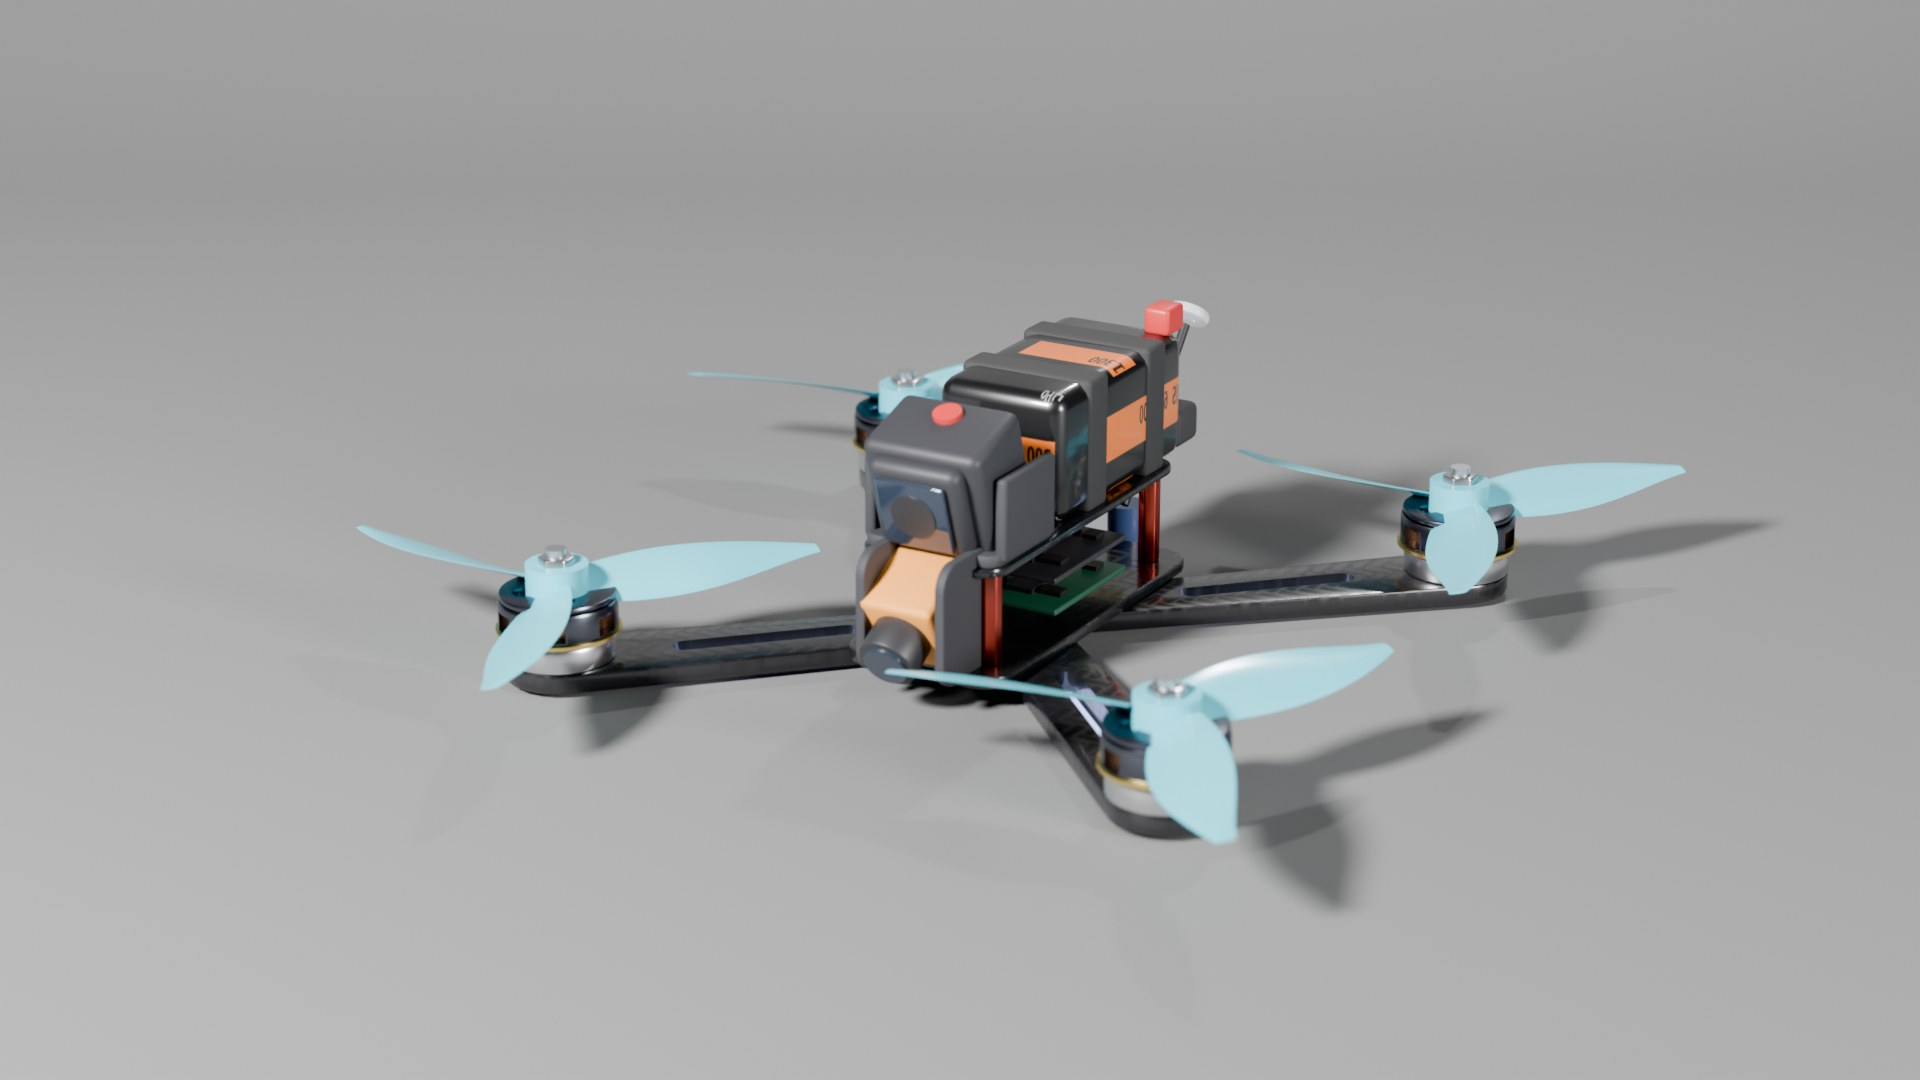
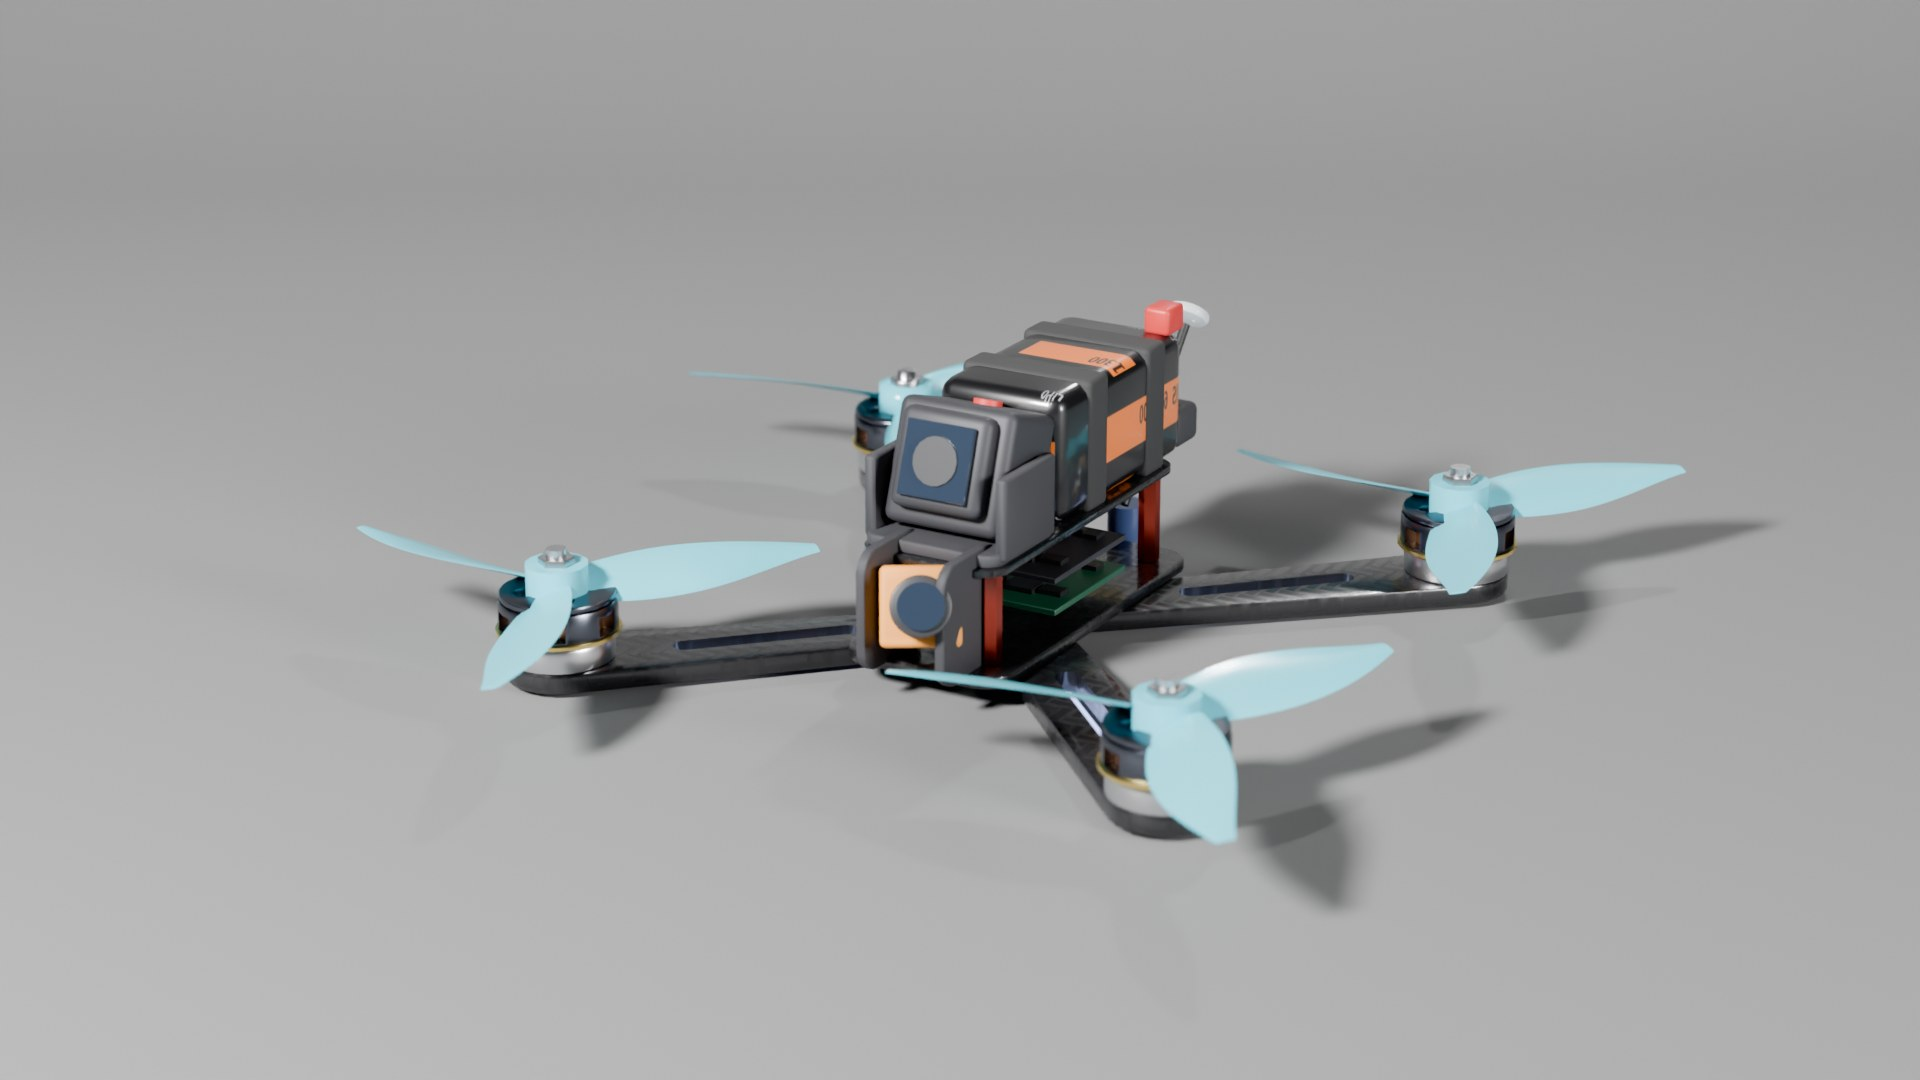
Station: loading stills — drones looking at you, only the stills it shows
The two drone stills re-rendered (Cycles, 64 samples, denoised) with each
drone's FPV camera aimed at the viewer. The loading slideshow drops the
cliff still; showcase.py renders just the aerial and night by default
(--shots cliff for the spare).

Claude-Session: https://claude.ai/code/session_01EzZT1tvg8KVWVUon2AmT86

Changed region(s): [[0.4375, 0.3361, 0.5625, 0.6722], [0.5938, 0.55, 0.625, 0.5806]]

diff --git a/src/station/intro.tsx b/src/station/intro.tsx
@@ -133,7 +133,7 @@ export function IntroFlight() {
  * and crossfading — the way a game's loading screen shows its artwork —
  * until the flight cuts in. Any that haven't been rendered are just left out.
  */
-const SLIDES = ['aerial', 'cliff', 'night', 'hero_quad', 'hero_whoop'].map((n) => `/station/loading/${n}.jpg`)
+const SLIDES = ['aerial', 'night', 'hero_quad', 'hero_whoop'].map((n) => `/station/loading/${n}.jpg`)
 
 function Slides({ on }: { on: boolean }) {
   const [ready, setReady] = useState<string[]>([])

diff --git a/tools/blender/showcase.py b/tools/blender/showcase.py
@@ -44,7 +44,7 @@ def arg(name, default, n=1):
 
 SKILLS = os.path.expanduser(arg('--skills', os.environ.get('BLENDER_SKILLS', '~/blender-skills')))
 OUT = os.path.abspath(arg('--out', os.path.join(STATION, 'loading')))
-SHOTS = arg('--shots', 'aerial,cliff,night').split(',')
+SHOTS = arg('--shots', 'aerial,night').split(',')
 RES = arg('--res', [1920, 1080], 2)
 SAMPLES = arg('--samples', 256)
 TEX = arg('--textures', 'ultra')

diff --git a/docs/COMMAND_CENTER.md b/docs/COMMAND_CENTER.md
@@ -97,7 +97,7 @@ The stills and the drone renders are made with the Blender Agent Skills
 scatter, look-dev turntables, asset QA). With a checkout of them:
 
 ```
-.bpy/bin/python tools/blender/showcase.py --skills ~/blender-skills      # aerial, cliff, night → public/station/loading/
+.bpy/bin/python tools/blender/showcase.py --skills ~/blender-skills      # aerial, night → public/station/loading/ (--shots cliff for the spare)
 ```
 - **Panels** over the room: Business & money (each figure with its source and
   age), Terminal (filters incl. Errors; narrows to the selection), Needs
